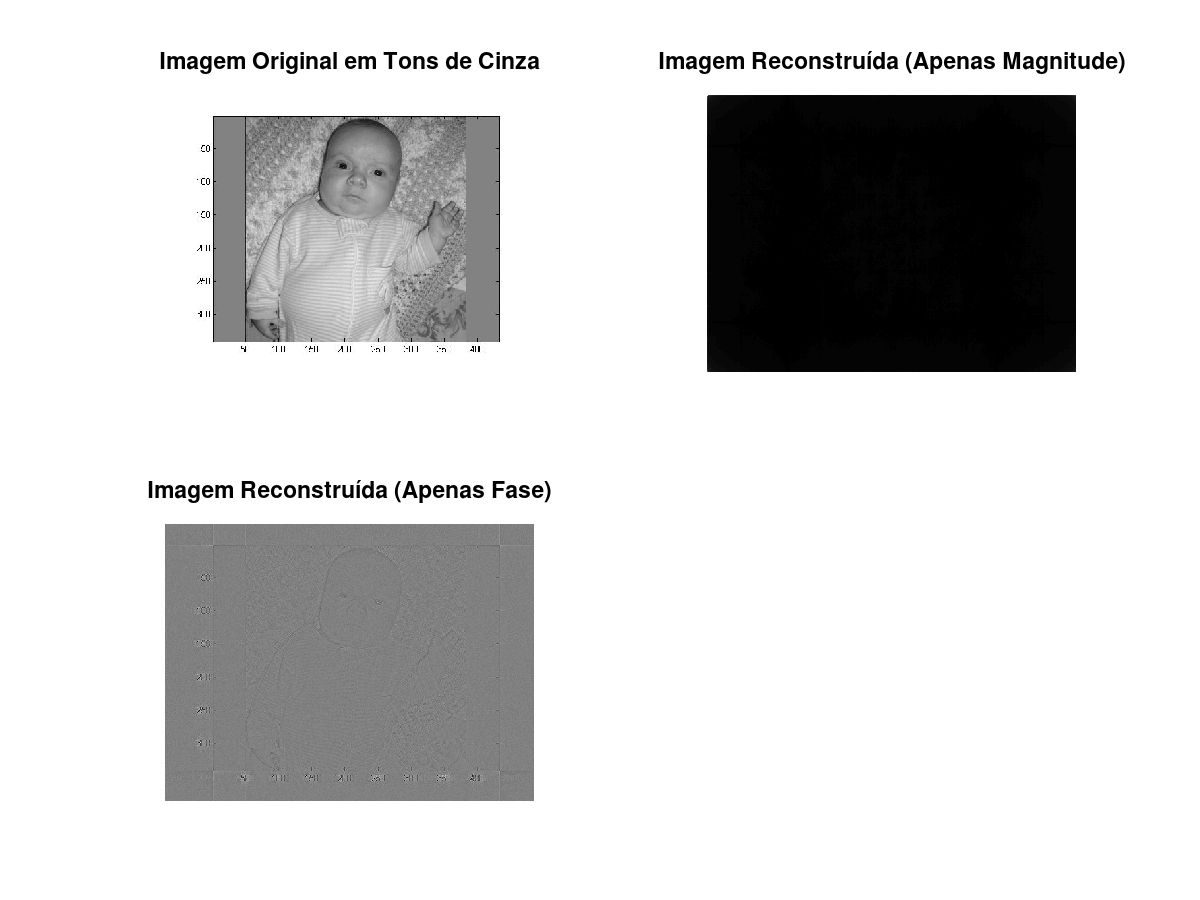
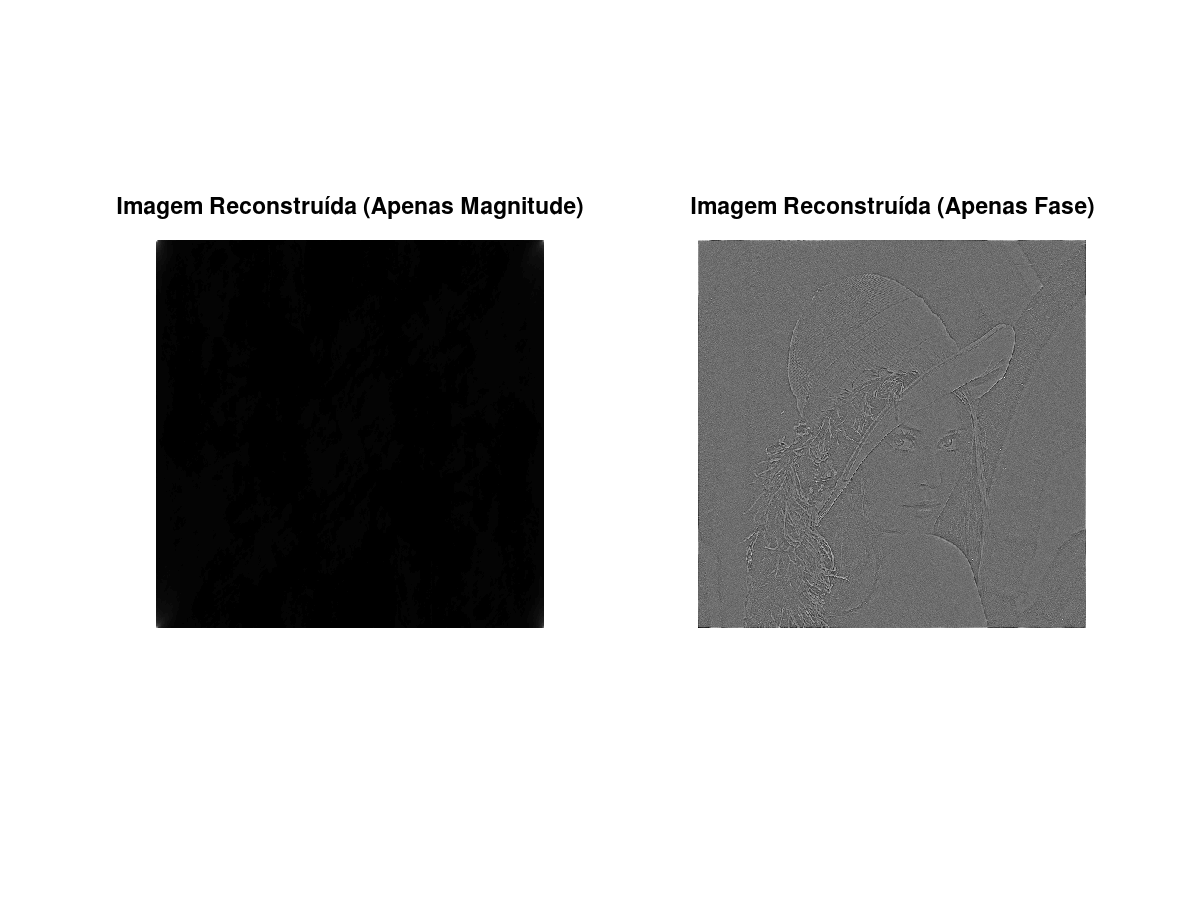
updates

diff --git a/trab2/number3_2.m b/trab2/number3_2.m
@@ -1,68 +1,10 @@
 addpath("funcoes/")
 pkg load communications
 pkg load image
-% g. Em um novo script (exemplo: Q3.3), faça novamente o procedimento para
-% obter a magnitude e a fase da imagem em escala de cinzas. Porém, agora você
-% deverá gerar um ruído branco (use a função wgn) com uma potência de 90
-% dBW. O sinal ruído branco deve ter as mesmas dimensões da imagem.
-% Implementação de SAFFT em uma imagem utilizando a função safft2
 
-imagem = imread('trab2/eli.jpg');  % Substitua pelo nome do arquivo de imagem
+% Carregar e processar a imagem
+imagem = imread('trab2/lena_std(1).tif'); % Substitua pelo nome do arquivo de imagem
 [n_linhas, n_colunas, n_canais] = size(imagem);
-
-% % Converter a imagem para tons de cinza, se necessário
-if size(imagem, 3) == 3
-    imagem_cinza = rgb2gray(imagem);
-else
-    imagem_cinza = imagem;
-end
-
-% % Definir o tamanho do bloco para o SAFFT
-bloco_tamanho = 1024;  % Tamanho do bloco adaptável
-
-% % Aplicar o SAFFT usando a função safft2
-safft_resultado = safft2(imagem_cinza, bloco_tamanho);
-
-% % Centralizar o espectro de cada bloco
-safft_resultado_shifted = fftshift(safft_resultado);
-% h. Aplique o ruído branco e realize a inversa da FFT bidimensional e não esqueça
-% de incluir a fase nesse processo (Magnitude.*exp(i*Fase))+ ruído.
-% Transformada e deslocamento de FFT
-F_shifted = fftshift(safft_resultado);  
-magnitude = abs(F_shifted); 
-fase = angle(F_shifted);      
-
-% Aplicar ruído branco (ruído aditivo gaussiano) na magnitude e fase
-ruido_magnitude = magnitude + 0.05 * randn(size(magnitude)); % ajuste o valor de 0.05 conforme desejado para a intensidade do ruído
-ruido_fase = fase + 0.05 * randn(size(fase));  % adição de ruído na fase também
-
-% Reconstruir com ruído na FFT inversa
-F_com_ruido = ruido_magnitude .* exp(1i * ruido_fase);  % combinação de magnitude e fase com ruído
-F_com_ruido_shifted = ifftshift(F_com_ruido);  % shift inverso
-imagem_com_ruido = real(ifft2(F_com_ruido_shifted));  % transformada inversa de Fourier
-
-% Exibir resultados
-figure;
-subplot(1, 3, 1); imshow(imagem_cinza); title('Imagem Original em Tons de Cinza');
-subplot(1, 3, 2); imshow(imagem_mag_only, []); title('Imagem com Apenas Magnitude');
-subplot(1, 3, 3); imshow(imagem_com_ruido, []); title('Imagem Reconstruída com Ruído');
-
-
-
-imagem = imread('trab2/lena_std(1).tif');  % Substitua pelo nome do arquivo de imagem
-[n_linhas, n_colunas, n_canais] = size(imagem);
-
-
-% % Verifica se a imagem é colorida (3 canais) ou em escala de cinza (1 canal)
-% if n_canais == 1
-%     imshow(imagem);  % Imagem em escala de cinza
-% elseif n_canais == 3
-%     n = 3;  % Canal azul, por exemplo
-%     imshow(imagem(:,:,n));  % Exibe o canal especificado
-% else
-%     disp('Imagem com número inesperado de canais');
-% end
-
 
 % Converter a imagem para tons de cinza, se necessário
 if size(imagem, 3) == 3
@@ -78,20 +20,78 @@ bloco_tamanho = 1024;  % Tamanho do bloco adaptável
 safft_resultado = safft2(imagem_cinza, bloco_tamanho);
 
 % Centralizar o espectro de cada bloco
-safft_resultado_shifted = fftshift(safft_resultado);
+F_shifted = fftshift(safft_resultado);  
+magnitude = abs(F_shifted); 
+fase = angle(F_shifted);
 
-% Calcular a magnitude da SAFFT
-magnitude_safft = log(1 + abs(safft_resultado_shifted));
-angle_safft = angle(safft_resultado_shifted);
+% Reconstruir imagem usando apenas a magnitude (fase uniforme = 0)
+fase_uniforme = zeros(size(fase)); % fase uniforme = 0
+F_mag_only = magnitude .* exp(1i * fase_uniforme);
+F_mag_only_shifted = ifftshift(F_mag_only);
+imagem_mag_only = real(ifft2(F_mag_only_shifted));
+
 % Gerar ruído branco com potência de 90 dBW
-ruido_branco = wgn(n_linhas, n_colunas, 90, 'linear');
+ruido = wgn(n_linhas, n_colunas, 90); % ruído branco aditivo com potência de 90 dBW
+
+% Adicionar o ruído branco diretamente na magnitude e fase originais
+magnitude_ruido = magnitude + ruido;
+fase_ruido = fase;
+
+% Reconstruir com magnitude e fase, incluindo o ruído
+F_com_ruido = magnitude_ruido .* exp(1i * fase_ruido);
+F_com_ruido_shifted = ifftshift(F_com_ruido);
+imagem_com_ruido = real(ifft2(F_com_ruido_shifted));
+
+% Exibir resultados
+figure;
+subplot(1, 2, 1); imshow(imagem_cinza); title('Imagem Original em Tons de Cinza');
+% subplot(1, 2, 2); imshow(imagem_mag_only, []); title('Imagem com Apenas Magnitude');
+subplot(1, 2, 2); imshow(imagem_com_ruido, []); title('Imagem Reconstruída com Ruído');
+
+
+% imagem = imread('trab2/lena_std(1).tif');  % Substitua pelo nome do arquivo de imagem
+% [n_linhas, n_colunas, n_canais] = size(imagem);
+
+
+% % % Verifica se a imagem é colorida (3 canais) ou em escala de cinza (1 canal)
+% % if n_canais == 1
+% %     imshow(imagem);  % Imagem em escala de cinza
+% % elseif n_canais == 3
+% %     n = 3;  % Canal azul, por exemplo
+% %     imshow(imagem(:,:,n));  % Exibe o canal especificado
+% % else
+% %     disp('Imagem com número inesperado de canais');
+% % end
+
+
+% % Converter a imagem para tons de cinza, se necessário
+% if size(imagem, 3) == 3
+%     imagem_cinza = rgb2gray(imagem);
+% else
+%     imagem_cinza = imagem;
+% end
+
+% % Definir o tamanho do bloco para o SAFFT
+% bloco_tamanho = 1024;  % Tamanho do bloco adaptável
+
+% % Aplicar o SAFFT usando a função safft2
+% safft_resultado = safft2(imagem_cinza, bloco_tamanho);
+
+% % Centralizar o espectro de cada bloco
+% safft_resultado_shifted = fftshift(safft_resultado);
+
+% % Calcular a magnitude da SAFFT
+% magnitude_safft = log(1 + abs(safft_resultado_shifted));
+% angle_safft = angle(safft_resultado_shifted);
+% % Gerar ruído branco com potência de 90 dBW
+% ruido_branco = wgn(n_linhas, n_colunas, 90, 'linear');
 
 % % Adicionar o ruído à magnitude da SAFFT
 % imagem_ruido_branco = magnitude_safft.* exp(1i * angle_safft) + ruido_branco;
 % imagem_ruido_branco_shifted = ifftshift(imagem_ruido_branco);  % Shift inverso
 % imagem_rec_ruido_branco = real(ifft2(imagem_ruido_branco_shifted));  % FFT inversa
 
-figure;
+
 % subplot(1, 2, 1);
 % imshow(imagem_cinza);
 % title('Imagem Original em Tons de Cinza');
@@ -125,4 +125,4 @@ imagem_speckle = imnoise(imagem_cinza, 'speckle');
 % title('Imagem com Ruído Speckle');
 % pause(10);
 
-print("trab2/2.3_h).png", "-dpng");
+print("trab2/2.3_g).png", "-dpng");

diff --git a/trab2/number3.m b/trab2/number3.m
@@ -1,8 +1,8 @@
-addpath("funcoes/")
+
 
 % Implementação de SAFFT em uma imagem utilizando a função safft2
 
-imagem = imread('trab2/eli.jpg');  % Substitua pelo nome do arquivo de imagem
+imagem = imread('trab2/lena_std(1).tif');  % Substitua pelo nome do arquivo de imagem
 [n_linhas, n_colunas, n_canais] = size(imagem);
 % imshow(imagem); 
 
@@ -39,41 +39,53 @@ end
 % % Definir o tamanho do bloco para o SAFFT
 bloco_tamanho = 1024;  % Tamanho do bloco adaptável
 
-% % Aplicar o SAFFT usando a função safft2
-safft_resultado = safft2(imagem_cinza, bloco_tamanho);
+% % % Aplicar o SAFFT usando a função safft2
+% safft_resultado = safft2(imagem_cinza, bloco_tamanho);
 
-% % Centralizar o espectro de cada bloco
-safft_resultado_shifted = fftshift(safft_resultado);
+% % % Centralizar o espectro de cada bloco
+% safft_resultado_shifted = fftshift(safft_resultado);
 
+fft_resultado = fft2(imagem_cinza);
+fft_resultado_shifted = fftshift(fft_resultado);
+
+% % Calcular a magnitude e fase
+% magnitude_fft = abs(fft_resultado_shifted);
+% fase_fft = angle(fft_resultado_shifted);
 % % Calcular a magnitude da SAFFT
-% magnitude_safft = log(1 + abs(safft_resultado_shifted));
-% angle_safft = angle(safft_resultado_shifted);
+magnitude_safft = log(1 + abs(fft_resultado_shifted));
+angle_safft = angle(fft_resultado_shifted);
 
-% % Mostrar a imagem original e a SAFFT
+% Limitar a fase ao intervalo [-pi, pi] para visualização
+fase_fft = mod(angle_safft + pi, 2 * pi) - pi;
+
+
+% Calcular a FFT bidimensional e centralizar o espectro
+
+% Mostrar a imagem original e a SAFFT
 % figure;
-% subplot(3, 2, 1);
-% imshow(abs(safft_resultado), []);
+% subplot(2, 2, 2);
+% imshow(abs(fft_resultado), []);
 % title('Magnitude da SAFFT da Imagem');
 
 % subplot(3, 2, 2);
 % imshow(angle(safft_resultado));
-% title('Magnitude da SAFFT da Imagem');
+% % title('Magnitude da SAFFT da Imagem');
 
 
-% subplot(3, 2, 3);
+% subplot(2, 2, 1);
 % imshow(imagem_cinza);
 % title('Imagem Original em Tons de Cinza');
 
 
-% subplot(3, 2, 4);
+% subplot(2, 2, 3);
 % imshow(magnitude_safft, []);
 % title('Magnitude da SAFFT da Imagem');
 
-% subplot(3, 2, 5);
+% subplot(2, 2, 2);
 % imshow(angle_safft);
-% title('Magnitude da SAFFT da Imagem');
+% title('Fase da SAFFT da Imagem');
 
-% subplot(3, 2, 6);
+% subplot(2, 2, 4);
 % mesh(magnitude_safft);
 % title('Magnitude com mesh da SAFFT da Imagem');
 
@@ -83,36 +95,31 @@ safft_resultado_shifted = fftshift(safft_resultado);
 % % ifftshift). Depois faça a inversa apenas da fase (aqui faça a inversa de
 % % exp(i*Fase)). Plote os resultados. O que você pode concluir com esse
 % % resultado?
-F_shifted = fftshift(safft_resultado);
-
 % Calcular a magnitude e a fase da FFT
-magnitude = abs(F_shifted);
-fase = angle(F_shifted);    
+% Calcular a magnitude e a fase da FFT
+magnitude = abs(fft_resultado_shifted);
+fase = angle(fft_resultado_shifted);
 
 % Reconstruir a imagem usando apenas a magnitude (com fase uniforme)
-fase_uniforme = zeros(size(fase)); % fase uniforme = 0
+fase_uniforme = zeros(size(fase));  % fase uniforme = 0
 F_mag_only = magnitude .* exp(1i * fase_uniforme);
-F_mag_only_shifted = ifftshift(F_mag_only); % shift inverso
-imagem_mag_only = real(ifft2(F_mag_only_shifted)); % FFT inversa
+F_mag_only_shifted = ifftshift(F_mag_only);  % shift inverso
+imagem_mag_only = real(ifft2(F_mag_only_shifted));  % FFT inversa
 
 % Reconstruir a imagem usando apenas a fase (com magnitude uniforme)
-magnitude_uniforme = ones(size(magnitude)); % magnitude uniforme = 1
+magnitude_uniforme = ones(size(magnitude));  % magnitude uniforme = 1
 F_fase_only = magnitude_uniforme .* exp(1i * fase);
-F_fase_only_shifted = ifftshift(F_fase_only); % shift inverso
-imagem_fase_only = real(ifft2(F_fase_only_shifted)); % FFT inversa
+F_fase_only_shifted = ifftshift(F_fase_only);  % shift inverso
+imagem_fase_only = real(ifft2(F_fase_only_shifted));  % FFT inversa
 
+% Exibir a imagem reconstruída com apenas magnitude e apenas fase
 figure;
-subplot(2, 2, 1);
-imshow(imagem_cinza);
-title('Imagem Original em Tons de Cinza');
-
-subplot(2, 2, 2);
+subplot(1, 2, 1);
 imshow(imagem_mag_only, []);
 title('Imagem Reconstruída (Apenas Magnitude)');
 
-subplot(2, 2, 3);
+subplot(1, 2, 2);
 imshow(imagem_fase_only, []);
 title('Imagem Reconstruída (Apenas Fase)');
-
-
+% pause(10)
 print("trab2/2.3_f).png", "-dpng");
